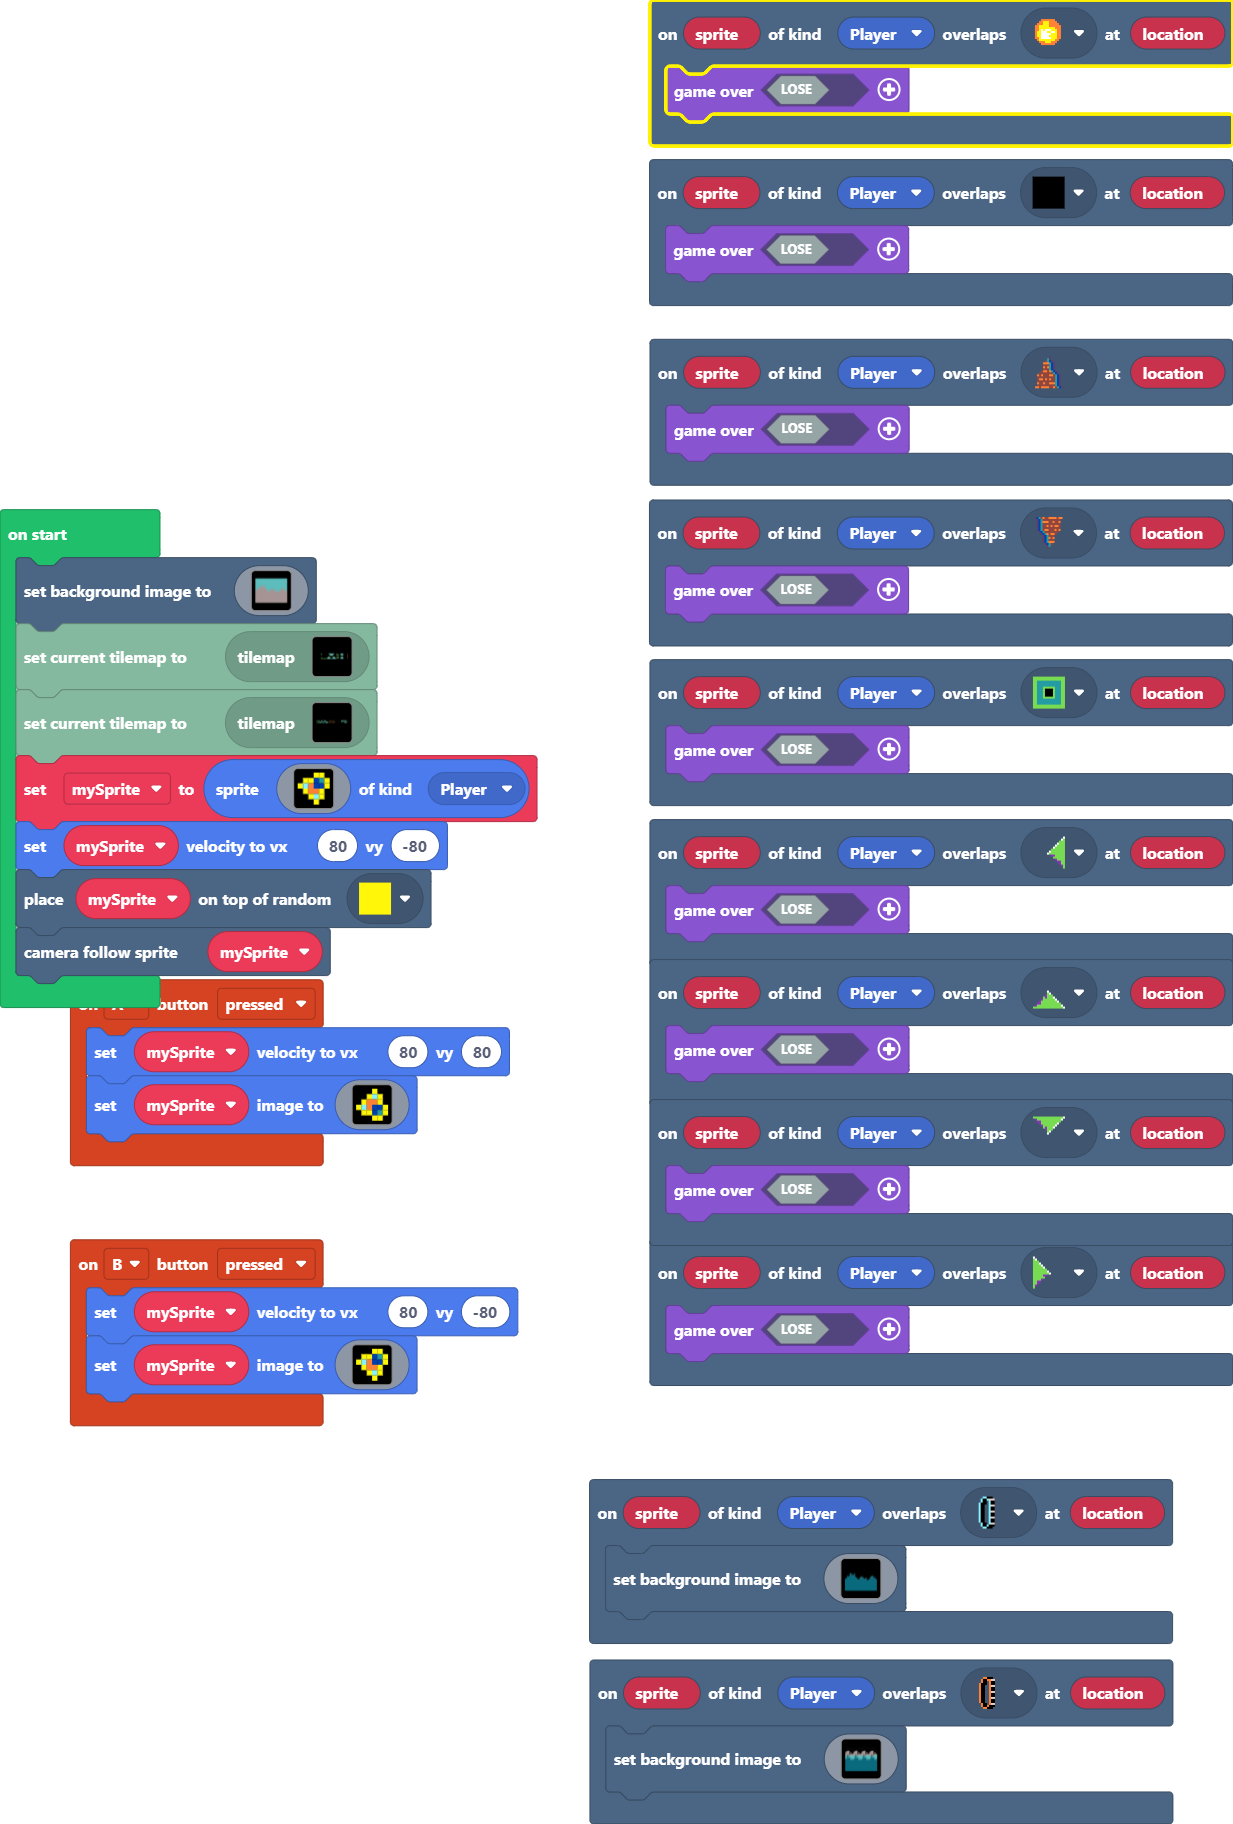
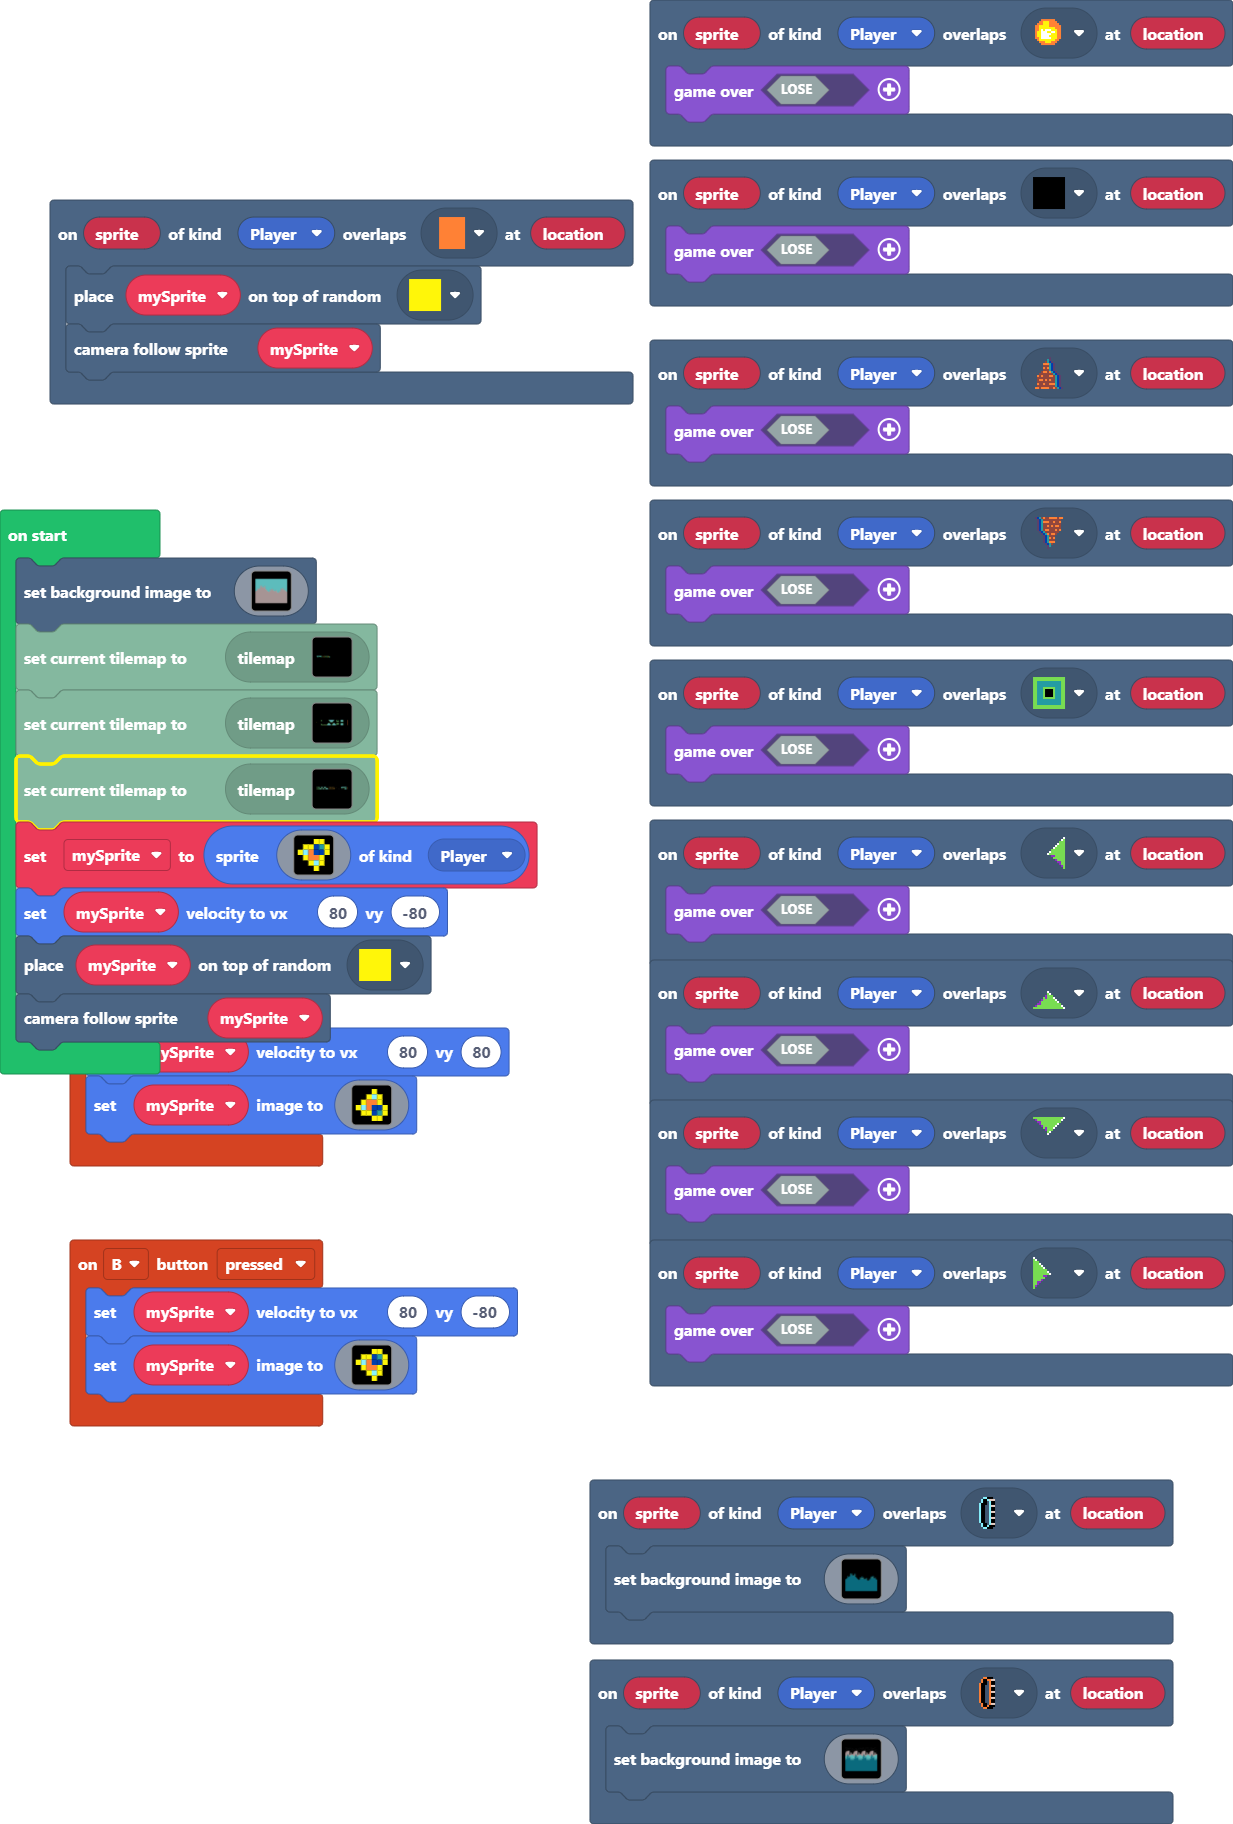
added another hard level

diff --git a/tilemap.g.ts b/tilemap.g.ts
@@ -58,8 +58,21 @@ namespace myTiles {
 ...............................................................................................................................................................................................................................................................
 ...............................................................................................................................................................................................................................................................
 `, [myTiles.transparency16,myTiles.tile1,myTiles.tile2,myTiles.tile3,myTiles.tile4,myTiles.tile5,myTiles.tile6,myTiles.tile8], TileScale.Sixteen);
+            case "level3":
[1 lines of base64/hex data omitted]
+......................................................................................................................................................
+......................................................................................................................................................
+......................................................................................................................................................
+......................................................................................................................................................
+......................................................................................................................................................
+......................................................................................................................................................
+......................................................................................................................................................
+......................................................................................................................................................
+......................................................................................................................................................
+......................................................................................................................................................
+`, [myTiles.transparency16,myTiles.tile2,myTiles.tile12,myTiles.tile1,myTiles.tile5,myTiles.tile8,myTiles.tile3,myTiles.tile4,myTiles.tile6,myTiles.tile7,myTiles.tile11,myTiles.tile13,myTiles.tile14,myTiles.tile15], TileScale.Sixteen);
             case "level2":
[2 lines of base64/hex data omitted]
 ....................................................................................................
 ....................................................................................................
 ....................................................................................................
@@ -77,19 +90,19 @@ namespace myTiles {
 ....................................................................................................
 ....................................................................................................
 `, [myTiles.transparency16,myTiles.tile8,myTiles.tile1,myTiles.tile2,myTiles.tile3,myTiles.tile4,myTiles.tile5,myTiles.tile6,myTiles.tile7,myTiles.tile9,myTiles.tile10,myTiles.tile11], TileScale.Sixteen);
-            case "level3":
[1 lines of base64/hex data omitted]
-......................................................................................................................................................
-......................................................................................................................................................
-......................................................................................................................................................
-......................................................................................................................................................
-......................................................................................................................................................
-......................................................................................................................................................
-......................................................................................................................................................
-......................................................................................................................................................
-......................................................................................................................................................
-......................................................................................................................................................
-`, [myTiles.transparency16,myTiles.tile2,myTiles.tile12,myTiles.tile1,myTiles.tile5,myTiles.tile8,myTiles.tile3,myTiles.tile4,myTiles.tile6,myTiles.tile7,myTiles.tile11,myTiles.tile13,myTiles.tile14,myTiles.tile15], TileScale.Sixteen);
+            case "level4":
[1 lines of base64/hex data omitted]
+...............................................................................................................................................................................................................................................................
+...............................................................................................................................................................................................................................................................
+...............................................................................................................................................................................................................................................................
+...............................................................................................................................................................................................................................................................
+...............................................................................................................................................................................................................................................................
+...............................................................................................................................................................................................................................................................
+...............................................................................................................................................................................................................................................................
+...............................................................................................................................................................................................................................................................
+...............................................................................................................................................................................................................................................................
+...............................................................................................................................................................................................................................................................
+`, [myTiles.transparency16,myTiles.tile2,myTiles.tile4,myTiles.tile5,myTiles.tile8,myTiles.tile6,myTiles.tile7,myTiles.tile14,myTiles.tile10,myTiles.tile12], TileScale.Sixteen);
         }
         return null;
     })

diff --git a/main.ts b/main.ts
@@ -38,6 +38,10 @@ scene.onOverlapTile(SpriteKind.Player, assets.tile`myTile7`, function (sprite, l
 scene.onOverlapTile(SpriteKind.Player, assets.tile`myTile12`, function (sprite, location) {
     game.over(false)
 })
+scene.onOverlapTile(SpriteKind.Player, assets.tile`myTile9`, function (sprite, location) {
+    tiles.placeOnRandomTile(mySprite, assets.tile`myTile6`)
+    scene.cameraFollowSprite(mySprite)
+})
 scene.onOverlapTile(SpriteKind.Player, assets.tile`myTile8`, function (sprite, location) {
     game.over(false)
 })
@@ -418,6 +422,7 @@ scene.setBackgroundImage(img`
     dddddddddddddddddddddddddddddddddddddddddddddddddddddddddddddddddddddddddddddddddddddddddddddddddddddddddddddddddddddddddddddddddddddddddddddddddddddddddddddddd
     dddddddddddddddddddddddddddddddddddddddddddddddddddddddddddddddddddddddddddddddddddddddddddddddddddddddddddddddddddddddddddddddddddddddddddddddddddddddddddddddd
     `)
+tiles.loadMap(tiles.createMap(tilemap`level4`))
 tiles.loadMap(tiles.createMap(tilemap`level2`))
 tiles.loadMap(tiles.createMap(tilemap`level3`))
 mySprite = sprites.create(img`
